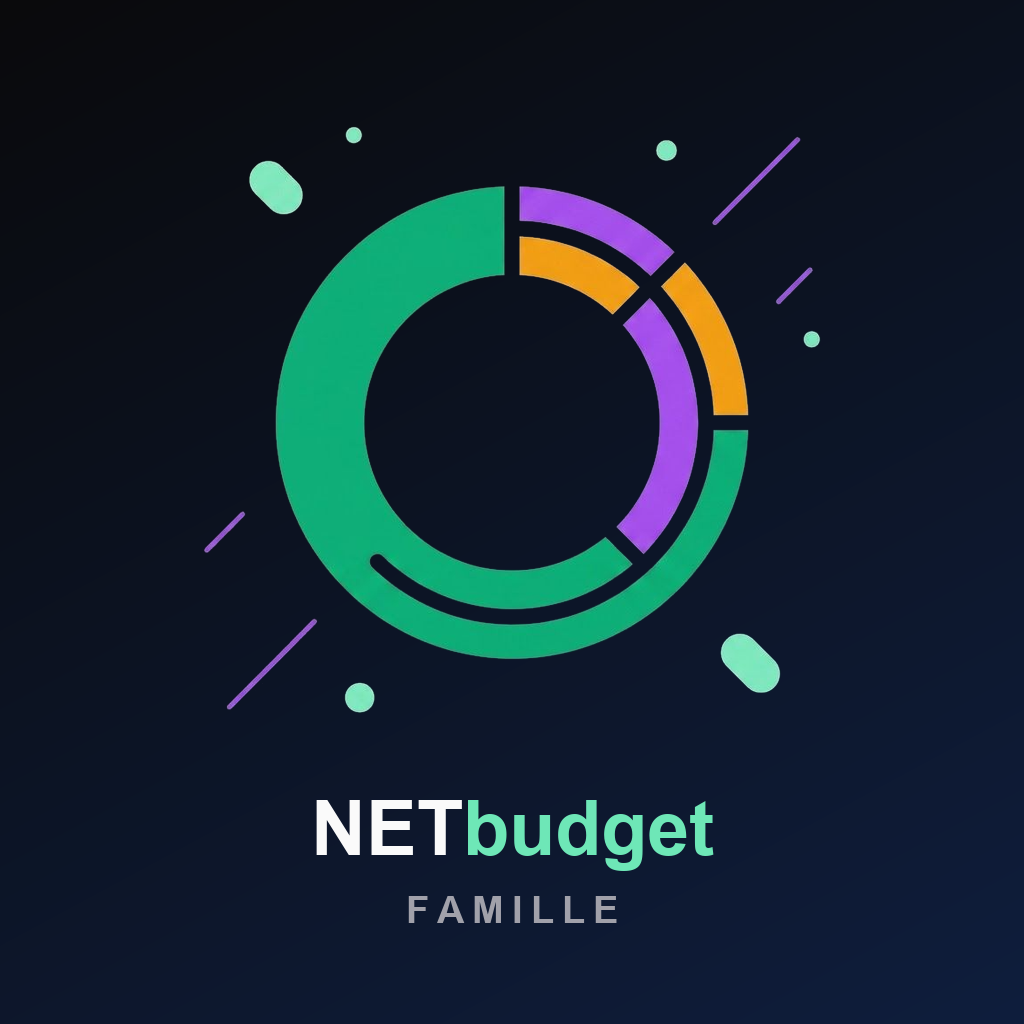
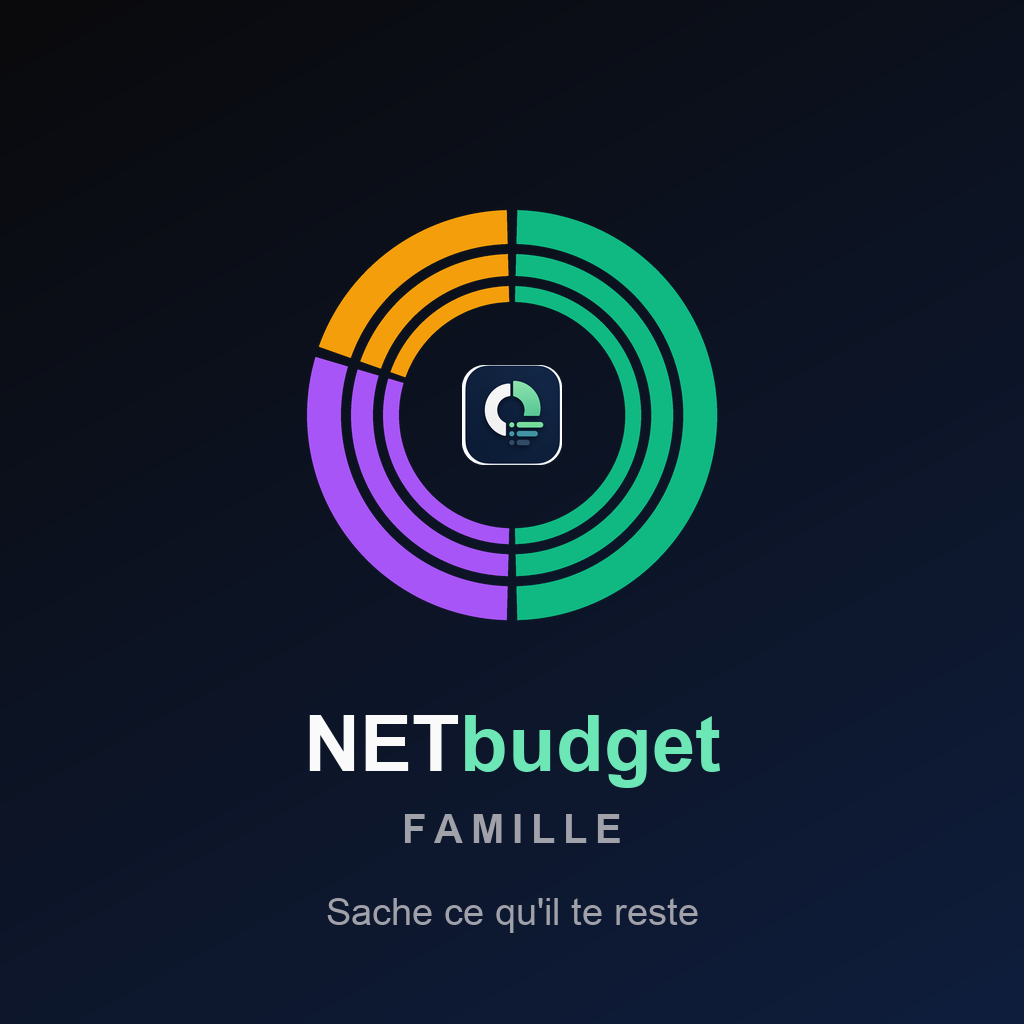
app store: six images promotionnelles d'abonnement distinctes (anneaux par formule, point ou douze points selon la periode)

diff --git a/marketing/appstore/generer-image-abonnement.py b/marketing/appstore/generer-image-abonnement.py
@@ -109,13 +109,39 @@ def centered(d, text, f, y, fill):
     return w
 
 
-def build(filename, tier_label):
+def dots_ring(img, cx, cy, radius, n, color, dot_r):
+    """n points repartis sur un cercle : douze pour l'annuel (les mois), un
+    seul en haut pour le mensuel. Supersampling comme l'anneau."""
+    S = 4
+    layer = Image.new("RGBA", (SIZE * S, SIZE * S), (0, 0, 0, 0))
+    d = ImageDraw.Draw(layer)
+    for k in range(n):
+        a = math.radians(-90 + 360 * k / n)
+        x, y = cx + radius * math.cos(a), cy + radius * math.sin(a)
+        d.ellipse([(x - dot_r) * S, (y - dot_r) * S, (x + dot_r) * S, (y + dot_r) * S], fill=color)
+    layer = layer.resize((SIZE, SIZE), Image.LANCZOS)
+    img.paste(layer, (0, 0), layer)
+
+
+def build(filename, tier_label, rings=1, period=None):
+    """rings : 1 Solo, 2 Duo, 3 Famille (anneaux concentriques, un par
+    personne-type). period : "mensuel" (un point en haut) ou "annuel" (douze
+    points autour, les mois). Apple exige une image distincte par produit :
+    c'est ce que ces deux variables garantissent, sans prix et sans date."""
     img = gradient()
     d = ImageDraw.Draw(img)
 
-    # --- Anneau, centre haut ------------------------------------------------
+    # --- Anneaux, centre haut ----------------------------------------------
     cx, cy, r = SIZE / 2, 415, 205
-    ring(img, cx, cy, r, 56)
+    widths = {1: [56], 2: [40, 26], 3: [34, 22, 16]}[rings]
+    radius = r
+    for w in widths:
+        ring(img, cx, cy, radius, w)
+        radius -= w + 10
+    if period == "annuel":
+        dots_ring(img, cx, cy, r + 48, 12, MINT_LIGHT, 7)
+    elif period == "mensuel":
+        dots_ring(img, cx, cy, r + 48, 1, MINT_LIGHT, 10)
     d = ImageDraw.Draw(img)
 
     # --- Logo au centre de l'anneau ----------------------------------------
@@ -124,7 +150,7 @@ def build(filename, tier_label):
     # dessine un carre blanc au milieu de l'anneau. On lui applique donc un
     # masque aux coins arrondis, au meme rayon que l'icone elle-meme.
     if os.path.exists(LOGO):
-        s = 150
+        s = 150 if rings == 1 else (120 if rings == 2 else 100)
         logo = Image.open(LOGO).convert("RGB").resize((s, s), Image.LANCZOS)
 
         S = 4  # masque dessine en plus grand puis reduit : bords lisses
@@ -145,6 +171,8 @@ def build(filename, tier_label):
     d.text((x + net_w, 700), "budget", font=f_brand, fill=MINT_LIGHT)
 
     # --- Palier -------------------------------------------------------------
+    if tier_label and period:
+        tier_label = f"{tier_label} · {period}"
     if tier_label:
         f_tier = bold(40)
         # Lettrage espace a la main : Pillow n'a pas de letter-spacing, et sans
@@ -166,9 +194,10 @@ def build(filename, tier_label):
 
 def main():
     print("Images d'abonnement :")
-    build("abonnement-solo-1024.png", "Solo")
-    build("abonnement-duo-1024.png", "Duo")
-    build("abonnement-famille-1024.png", "Famille")
+    for tier, rings in (("Solo", 1), ("Duo", 2), ("Famille", 3)):
+        build(f"abonnement-{tier.lower()}-1024.png", tier, rings)
+        for period in ("mensuel", "annuel"):
+            build(f"abonnement-{tier.lower()}-{period}-1024.png", tier, rings, period)
     build("abonnement-1024.png", "")
     return 0
 
